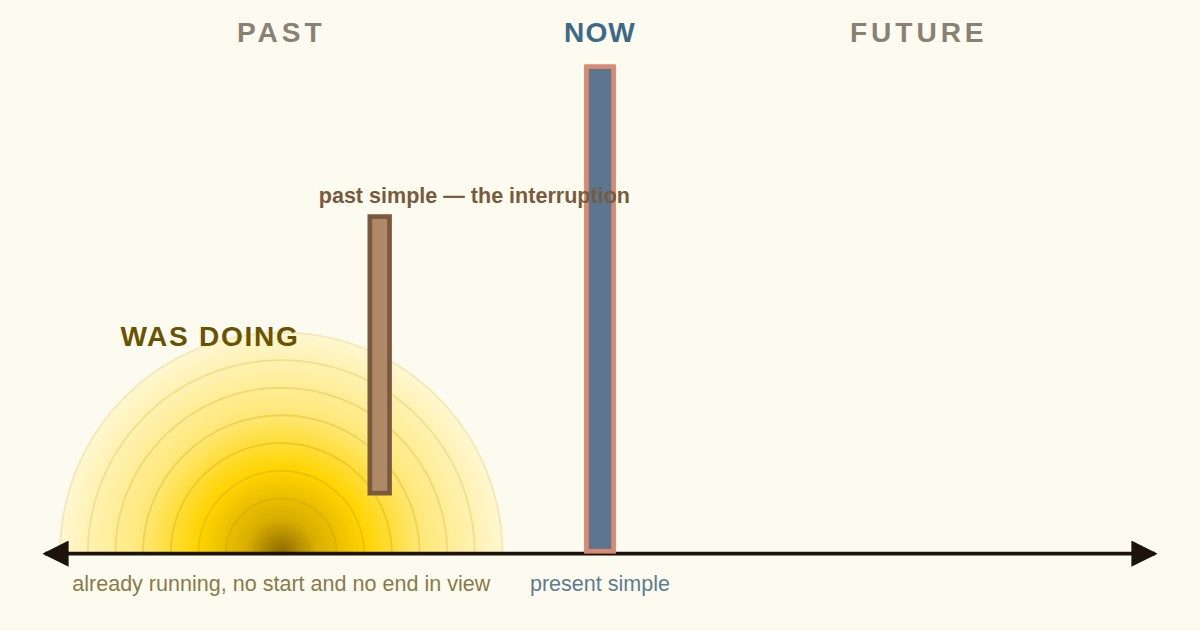
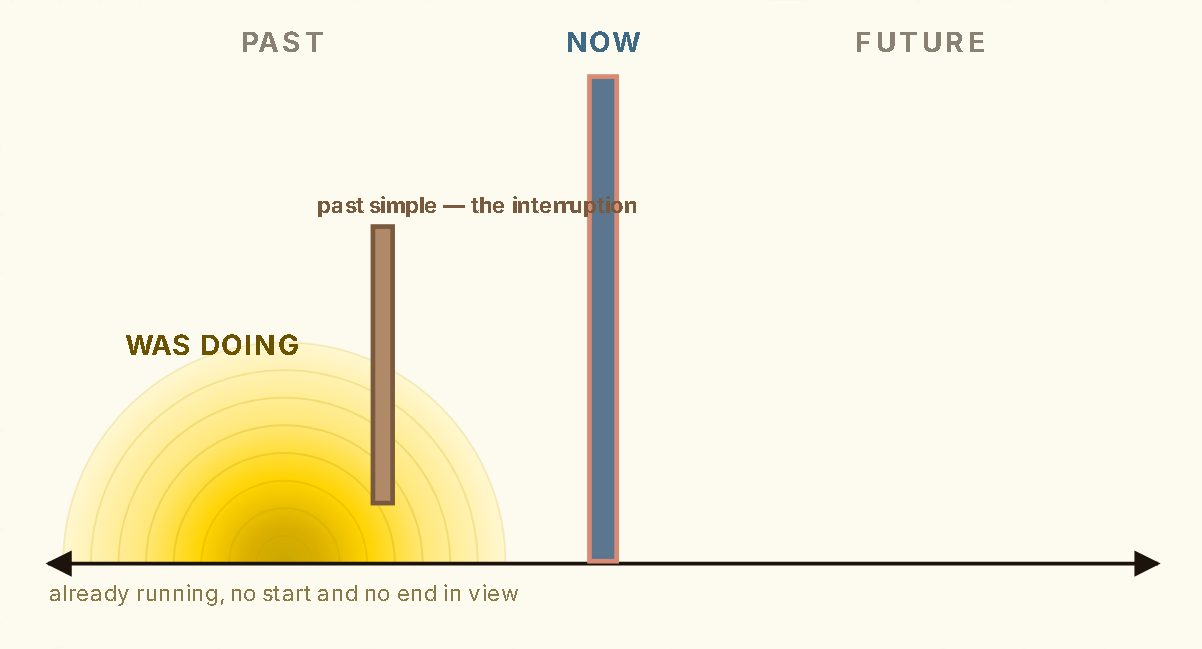
Sherpa camp six: yellow, not mustard, so it stands apart from past simple
Innes: "this should be yellow to distinguish it from past simple". The
route map calls camp six a soft yellow (#F1D779), but the page wore a
mustard (#A8860B): the recolour tools walk --accent down until text in it
clears 3:1 on the paper, and a yellow dark enough for text is mustard,
which beside past simple's tan reads as the same brown.

Almost every use of --accent is a fill (section markers, the trail line,
buttons, the translation chip, the progress bar, borders); two are text
(the "Tensing" in the wordmark, the results score). New tool
lesson-template/split_accent.py splits them:
- --accent becomes the fill, derived from the key in OKLCh (hue kept,
  L -0.02, chroma x1.25): #F1CF50, with the page ink on it at 10.4:1;
- the old shade becomes --accent-text (3.33:1) and both text uses point
  at it;
- --accent-light/-lighter re-derived at the key hue: #FCE698, #FFF6D1;
- the hero glow's gold-brown centre and rings (#8A6A00, #C79A00) lift to
  a deep yellow at the key hue (#CAA800); text colours are untouched.
Descent eight, camp six's twin on a dark page, takes the same yellow
(no split needed: 12.3:1 on its paper).

recolour_family.floors() now measures the 3:1 floor on --accent-text
where a page has one, so a later pass cannot walk the fill back to
mustard; both pages come through it unchanged. check_route_map.py
passes. Cards re-rendered.

diff --git a/sherpa-tensing-camp-six-past-continuous.html b/sherpa-tensing-camp-six-past-continuous.html
@@ -29,10 +29,10 @@
     --ink-soft:#6E6231;
     --paper:#FDFBF0;
     --card:#FFFFFF;
-    --accent:#A8860B; --on-accent:#2A2208;
+    --accent:#F1CF50; --accent-text:#A8860B; --on-accent:#2A2208;
     --accent-dark:#6B5200;
-    --accent-light:#F0E0A6;
-    --accent-lighter:#FBF4DA;
+    --accent-light:#FCE698;
+    --accent-lighter:#FFF6D1;
     --good:#1E7A4C;
     --good-bg:#E5F5EC;
     --bad:#B23A3A;
@@ -44,7 +44,7 @@
   h1,h2,h3{font-family:'Fraunces',serif;font-weight:600;margin:0 0 .4em;color:var(--ink);}
   .wordmark{display:flex;align-items:center;justify-content:space-between;max-width:1000px;margin:0 auto;padding:28px 24px 0;}
   .wordmark .brand{font-family:'Fraunces',serif;font-weight:700;font-size:20px;letter-spacing:.02em;}
-  .wordmark .brand span{color:var(--accent);}
+  .wordmark .brand span{color:var(--accent-text);}
   .wordmark .sub{font-size:13px;color:var(--ink-soft);}
 
   .form-grid{display:grid;grid-template-columns:repeat(auto-fit,minmax(220px,1fr));gap:16px;margin-top:18px;}
@@ -135,7 +135,7 @@
   .next-btn:disabled{background:var(--accent-light);cursor:not-allowed;}
 
   #results{display:none;text-align:center;padding:12px 0 8px;}
-  #results .score{font-family:'Fraunces',serif;font-size:52px;color:var(--accent);margin:8px 0;}
+  #results .score{font-family:'Fraunces',serif;font-size:52px;color:var(--accent-text);margin:8px 0;}
   #results p{color:var(--ink-soft);}
   .retry-btn{margin-top:12px;background:transparent;border:1px solid var(--accent);color:var(--accent-dark);padding:10px 20px;border-radius:999px;font-weight:600;cursor:pointer;font-family:'Inter',sans-serif;}
   .route-nav{display:flex;justify-content:center;gap:12px;flex-wrap:wrap;margin-top:22px;padding-top:18px;border-top:1px solid var(--accent-light);}
@@ -235,32 +235,32 @@ svg.hero-diagram{background:var(--paper);box-shadow:0 0 18px 14px var(--paper);}
     <svg class="hero-diagram" viewBox="0 0 640 344" xmlns="http://www.w3.org/2000/svg" role="img" aria-label="A timeline from past to future. A yellow ripple spreads through past time, and a thin brown bar drops into it partway down: the past simple interrupting the past continuous. Now is a narrow column at the centre.">
       <defs>
         <radialGradient id="pcGlowpc" cx="50%" cy="50%" r="50%">
-          <stop offset="0%" stop-color="#8A6A00"/>
+          <stop offset="0%" stop-color="#CAA800"/>
           <stop offset="16%" stop-color="#D9AE00"/>
           <stop offset="38%" stop-color="#FFD400"/>
           <stop offset="64%" stop-color="#FFE87A"/>
           <stop offset="100%" stop-color="#FFF7D1"/>
         </radialGradient>
         <marker id="ah-pc" viewBox="0 0 10 10" refX="9" refY="5" markerWidth="7" markerHeight="7" orient="auto-start-reverse">
-          <path d="M0,0 L10,5 L0,10 z" fill="#1c130c"/>
+          <path d="M0,0 L10,5 L0,10 z" fill="#1C130C"/>
         </marker>
         <clipPath id="above-pc"><rect x="0" y="0" width="640" height="299"/></clipPath>
       </defs>
       <rect x="0" y="0" width="640" height="344" fill="var(--paper)"/>
       <g clip-path="url(#above-pc)">
       <circle cx="150" cy="299" r="118" fill="url(#pcGlowpc)"/>
-      <circle cx="150" cy="299" r="14.8" fill="none" stroke="#C79A00" stroke-width="1" opacity="0.39"/>
-      <circle cx="150" cy="299" r="29.5" fill="none" stroke="#C79A00" stroke-width="1" opacity="0.36"/>
-      <circle cx="150" cy="299" r="44.2" fill="none" stroke="#C79A00" stroke-width="1" opacity="0.33"/>
-      <circle cx="150" cy="299" r="59.0" fill="none" stroke="#C79A00" stroke-width="1" opacity="0.30"/>
-      <circle cx="150" cy="299" r="73.8" fill="none" stroke="#C79A00" stroke-width="1" opacity="0.27"/>
-      <circle cx="150" cy="299" r="88.5" fill="none" stroke="#C79A00" stroke-width="1" opacity="0.24"/>
-      <circle cx="150" cy="299" r="103.2" fill="none" stroke="#C79A00" stroke-width="1" opacity="0.21"/>
-      <circle cx="150" cy="299" r="118.0" fill="none" stroke="#C79A00" stroke-width="1" opacity="0.18"/>
+      <circle cx="150" cy="299" r="14.8" fill="none" stroke="#CAA800" stroke-width="1" opacity="0.39"/>
+      <circle cx="150" cy="299" r="29.5" fill="none" stroke="#CAA800" stroke-width="1" opacity="0.36"/>
+      <circle cx="150" cy="299" r="44.2" fill="none" stroke="#CAA800" stroke-width="1" opacity="0.33"/>
+      <circle cx="150" cy="299" r="59.0" fill="none" stroke="#CAA800" stroke-width="1" opacity="0.30"/>
+      <circle cx="150" cy="299" r="73.8" fill="none" stroke="#CAA800" stroke-width="1" opacity="0.27"/>
+      <circle cx="150" cy="299" r="88.5" fill="none" stroke="#CAA800" stroke-width="1" opacity="0.24"/>
+      <circle cx="150" cy="299" r="103.2" fill="none" stroke="#CAA800" stroke-width="1" opacity="0.21"/>
+      <circle cx="150" cy="299" r="118.0" fill="none" stroke="#CAA800" stroke-width="1" opacity="0.18"/>
       <rect x="196" y="118" width="13" height="150" fill="#7A5A3E"/>
       <rect x="198.5" y="120.5" width="8" height="145" fill="#B08968"/>
       </g>
-      <line x1="24" y1="299" x2="616" y2="299" stroke="#1c130c" stroke-width="2"
+      <line x1="24" y1="299" x2="616" y2="299" stroke="#1C130C" stroke-width="2"
             marker-start="url(#ah-pc)" marker-end="url(#ah-pc)"/>
       <rect x="311.5" y="38" width="17.0" height="261" fill="#D98A72"/>
       <rect x="314.0" y="40.5" width="12.0" height="256" fill="#5C7690"/>
@@ -451,14 +451,14 @@ svg.hero-diagram{background:var(--paper);box-shadow:0 0 18px 14px var(--paper);}
           <svg viewBox="0 0 640 344" xmlns="http://www.w3.org/2000/svg" role="img" aria-label="A timeline from past to future. A yellow ripple spreads through past time, and a thin brown bar drops into it partway down: the past simple interrupting the past continuous. Now is a narrow column at the centre.">
       <defs>
         <radialGradient id="pcGlowpcb" cx="50%" cy="50%" r="50%">
-          <stop offset="0%" stop-color="#8A6A00"/>
+          <stop offset="0%" stop-color="#CAA800"/>
           <stop offset="16%" stop-color="#D9AE00"/>
           <stop offset="38%" stop-color="#FFD400"/>
           <stop offset="64%" stop-color="#FFE87A"/>
           <stop offset="100%" stop-color="#FFF7D1"/>
         </radialGradient>
         <marker id="ah-pcb" viewBox="0 0 10 10" refX="9" refY="5" markerWidth="7" markerHeight="7" orient="auto-start-reverse">
-          <path d="M0,0 L10,5 L0,10 z" fill="#1c130c"/>
+          <path d="M0,0 L10,5 L0,10 z" fill="#1C130C"/>
         </marker>
         <clipPath id="above-pcb"><rect x="0" y="0" width="640" height="299"/></clipPath>
       </defs>
@@ -466,21 +466,21 @@ svg.hero-diagram{background:var(--paper);box-shadow:0 0 18px 14px var(--paper);}
       <g clip-path="url(#above-pcb)">
       <g class="diagram-shape" id="shape-long" tabindex="0" role="button" aria-label="Show past continuous examples">
       <circle cx="150" cy="299" r="118" fill="url(#pcGlowpcb)"/>
-      <circle cx="150" cy="299" r="14.8" fill="none" stroke="#C79A00" stroke-width="1" opacity="0.39"/>
-      <circle cx="150" cy="299" r="29.5" fill="none" stroke="#C79A00" stroke-width="1" opacity="0.36"/>
-      <circle cx="150" cy="299" r="44.2" fill="none" stroke="#C79A00" stroke-width="1" opacity="0.33"/>
-      <circle cx="150" cy="299" r="59.0" fill="none" stroke="#C79A00" stroke-width="1" opacity="0.30"/>
-      <circle cx="150" cy="299" r="73.8" fill="none" stroke="#C79A00" stroke-width="1" opacity="0.27"/>
-      <circle cx="150" cy="299" r="88.5" fill="none" stroke="#C79A00" stroke-width="1" opacity="0.24"/>
-      <circle cx="150" cy="299" r="103.2" fill="none" stroke="#C79A00" stroke-width="1" opacity="0.21"/>
-      <circle cx="150" cy="299" r="118.0" fill="none" stroke="#C79A00" stroke-width="1" opacity="0.18"/>
+      <circle cx="150" cy="299" r="14.8" fill="none" stroke="#CAA800" stroke-width="1" opacity="0.39"/>
+      <circle cx="150" cy="299" r="29.5" fill="none" stroke="#CAA800" stroke-width="1" opacity="0.36"/>
+      <circle cx="150" cy="299" r="44.2" fill="none" stroke="#CAA800" stroke-width="1" opacity="0.33"/>
+      <circle cx="150" cy="299" r="59.0" fill="none" stroke="#CAA800" stroke-width="1" opacity="0.30"/>
+      <circle cx="150" cy="299" r="73.8" fill="none" stroke="#CAA800" stroke-width="1" opacity="0.27"/>
+      <circle cx="150" cy="299" r="88.5" fill="none" stroke="#CAA800" stroke-width="1" opacity="0.24"/>
+      <circle cx="150" cy="299" r="103.2" fill="none" stroke="#CAA800" stroke-width="1" opacity="0.21"/>
+      <circle cx="150" cy="299" r="118.0" fill="none" stroke="#CAA800" stroke-width="1" opacity="0.18"/>
       </g>
       <g class="diagram-shape" id="shape-short" tabindex="0" role="button" aria-label="Show past simple examples">
       <rect x="196" y="118" width="13" height="150" fill="#7A5A3E"/>
       <rect x="198.5" y="120.5" width="8" height="145" fill="#B08968"/>
       </g>
       </g>
-      <line x1="24" y1="299" x2="616" y2="299" stroke="#1c130c" stroke-width="2"
+      <line x1="24" y1="299" x2="616" y2="299" stroke="#1C130C" stroke-width="2"
             marker-start="url(#ah-pcb)" marker-end="url(#ah-pcb)"/>
       <rect x="311.5" y="38" width="17.0" height="261" fill="#D98A72"/>
       <rect x="314.0" y="40.5" width="12.0" height="256" fill="#5C7690"/>
@@ -690,7 +690,7 @@ function pulseShape(el){
     { duration: 380, easing: "ease-out" }
   );
 }
-[["shape-long","panel-long","#C79A00"],
+[["shape-long","panel-long","#CAA800"],
  ["shape-short","panel-short","#7A5A3E"]].forEach(function(pair){
   var el = document.getElementById(pair[0]);
   if (!el) return;

diff --git a/sherpa-tensing-descent-eight-past-continuous-passive.html b/sherpa-tensing-descent-eight-past-continuous-passive.html
@@ -29,7 +29,7 @@
     --ink-soft:#BCAD79;
     --paper:#161200;
     --card:#241E06;
-    --accent:#C79A00; --on-accent:#161200;
+    --accent:#F1CF50; --on-accent:#161200;
     --accent-dark:#FFEC9E;
     --accent-light:#3A2F00;
     --accent-lighter:#241D00;
@@ -254,14 +254,14 @@ svg.hero-diagram{background:var(--paper);box-shadow:0 0 18px 14px var(--paper);}
       <rect x="0" y="0" width="640" height="344" fill="var(--paper)"/>
       <g clip-path="url(#above-pctp1)">
       <circle cx="150" cy="299" r="118" fill="url(#pctpGpctp1)"/>
-      <circle cx="150" cy="299" r="14.8" fill="none" stroke="#C79A00" stroke-width="1" opacity="0.41"/>
-      <circle cx="150" cy="299" r="29.5" fill="none" stroke="#C79A00" stroke-width="1" opacity="0.38"/>
-      <circle cx="150" cy="299" r="44.2" fill="none" stroke="#C79A00" stroke-width="1" opacity="0.35"/>
-      <circle cx="150" cy="299" r="59.0" fill="none" stroke="#C79A00" stroke-width="1" opacity="0.32"/>
-      <circle cx="150" cy="299" r="73.8" fill="none" stroke="#C79A00" stroke-width="1" opacity="0.29"/>
-      <circle cx="150" cy="299" r="88.5" fill="none" stroke="#C79A00" stroke-width="1" opacity="0.26"/>
-      <circle cx="150" cy="299" r="103.2" fill="none" stroke="#C79A00" stroke-width="1" opacity="0.23"/>
-      <circle cx="150" cy="299" r="118.0" fill="none" stroke="#C79A00" stroke-width="1" opacity="0.20"/>
+      <circle cx="150" cy="299" r="14.8" fill="none" stroke="#CAA800" stroke-width="1" opacity="0.41"/>
+      <circle cx="150" cy="299" r="29.5" fill="none" stroke="#CAA800" stroke-width="1" opacity="0.38"/>
+      <circle cx="150" cy="299" r="44.2" fill="none" stroke="#CAA800" stroke-width="1" opacity="0.35"/>
+      <circle cx="150" cy="299" r="59.0" fill="none" stroke="#CAA800" stroke-width="1" opacity="0.32"/>
+      <circle cx="150" cy="299" r="73.8" fill="none" stroke="#CAA800" stroke-width="1" opacity="0.29"/>
+      <circle cx="150" cy="299" r="88.5" fill="none" stroke="#CAA800" stroke-width="1" opacity="0.26"/>
+      <circle cx="150" cy="299" r="103.2" fill="none" stroke="#CAA800" stroke-width="1" opacity="0.23"/>
+      <circle cx="150" cy="299" r="118.0" fill="none" stroke="#CAA800" stroke-width="1" opacity="0.20"/>
       <rect x="196" y="118" width="13" height="150" fill="#5E4630"/>
       <rect x="198.5" y="120.5" width="8" height="145" fill="#B08968"/>
       </g>
@@ -471,14 +471,14 @@ svg.hero-diagram{background:var(--paper);box-shadow:0 0 18px 14px var(--paper);}
       <g class="diagram-shape" id="shape-event" tabindex="0" role="button" aria-label="Show passive examples">
         <g clip-path="url(#above-pctp1b)">
       <circle cx="150" cy="299" r="118" fill="url(#pctpGpctp1b)"/>
-      <circle cx="150" cy="299" r="14.8" fill="none" stroke="#C79A00" stroke-width="1" opacity="0.41"/>
-      <circle cx="150" cy="299" r="29.5" fill="none" stroke="#C79A00" stroke-width="1" opacity="0.38"/>
-      <circle cx="150" cy="299" r="44.2" fill="none" stroke="#C79A00" stroke-width="1" opacity="0.35"/>
-      <circle cx="150" cy="299" r="59.0" fill="none" stroke="#C79A00" stroke-width="1" opacity="0.32"/>
-      <circle cx="150" cy="299" r="73.8" fill="none" stroke="#C79A00" stroke-width="1" opacity="0.29"/>
-      <circle cx="150" cy="299" r="88.5" fill="none" stroke="#C79A00" stroke-width="1" opacity="0.26"/>
-      <circle cx="150" cy="299" r="103.2" fill="none" stroke="#C79A00" stroke-width="1" opacity="0.23"/>
-      <circle cx="150" cy="299" r="118.0" fill="none" stroke="#C79A00" stroke-width="1" opacity="0.20"/>
+      <circle cx="150" cy="299" r="14.8" fill="none" stroke="#CAA800" stroke-width="1" opacity="0.41"/>
+      <circle cx="150" cy="299" r="29.5" fill="none" stroke="#CAA800" stroke-width="1" opacity="0.38"/>
+      <circle cx="150" cy="299" r="44.2" fill="none" stroke="#CAA800" stroke-width="1" opacity="0.35"/>
+      <circle cx="150" cy="299" r="59.0" fill="none" stroke="#CAA800" stroke-width="1" opacity="0.32"/>
+      <circle cx="150" cy="299" r="73.8" fill="none" stroke="#CAA800" stroke-width="1" opacity="0.29"/>
+      <circle cx="150" cy="299" r="88.5" fill="none" stroke="#CAA800" stroke-width="1" opacity="0.26"/>
+      <circle cx="150" cy="299" r="103.2" fill="none" stroke="#CAA800" stroke-width="1" opacity="0.23"/>
+      <circle cx="150" cy="299" r="118.0" fill="none" stroke="#CAA800" stroke-width="1" opacity="0.20"/>
       <rect x="196" y="118" width="13" height="150" fill="#5E4630"/>
       <rect x="198.5" y="120.5" width="8" height="145" fill="#B08968"/>
       </g>

diff --git a/lesson-template/split_accent.py b/lesson-template/split_accent.py
@@ -1,0 +1,138 @@
+#!/usr/bin/env python3
+"""Give a Sherpa page with a pale key colour its real colour back.
+
+    py lesson-template/split_accent.py <page.html> <key-hex> [--dry-run]
+
+Innes, 2026-09-26, on camp six: "this should be yellow to distinguish it
+from past simple". The route map calls camp six a soft yellow (#F1D779), but
+the page wore a mustard (#A8860B): the recolour tools walk --accent down
+until TEXT in it clears 3:1 on the paper, and a yellow dark enough for text
+is mustard, which beside past simple's tan reads as the same brown.
+
+Almost every use of --accent is a FILL (section markers, the trail line,
+buttons, the translation chip, the progress bar, borders); only a few are
+text (the "Tensing" in the wordmark, the results score). So:
+
+- a light page gets a split: --accent becomes the fill, derived from the key
+  in OKLCh (hue kept, L -0.02, chroma x1.25, so it holds its own on the cream
+  paper), with the page ink on it (--on-accent); the old 3:1 shade becomes
+  --accent-text, and every `color:var(--accent)` points at it;
+- a dark page needs no split (a yellow is legible on it): --accent is the fill;
+- --accent-light and --accent-lighter are re-derived at the key hue with
+  enough chroma to read as a tint of it, not as beige;
+- in the diagrams, every fill, stroke or gradient stop in the accent's hue
+  family darker than L 0.74 is lifted to it, at the key hue (a deep yellow,
+  not a gold-brown); on a dark page only the mid-tones, since its dark
+  family colours are grounds. Text colours are left alone: they need the dark.
+
+recolour_family.floors() knows the split: on a page with --accent-text, the
+3:1 floor is measured on it, and --accent is held only as a fill.
+"""
+import io
+import math
+import os
+import re
+import sys
+
+sys.path.insert(0, os.path.dirname(os.path.abspath(__file__)))
+from soften import to_lch, from_lch, contrast        # noqa: E402
+
+HEX = r'(?<!&)#([0-9A-Fa-f]{6})\b'
+FAMILY_DH = 10          # degrees either side of the key hue
+FAMILY_MIN_C = 0.08     # below this a colour is a grey or an ink, not the family
+DEEP_L = 0.74           # the darkest a diagram fill may be and still read as the key colour
+
+
+def tokens(src):
+    return {k: v.upper() for k, v in re.findall(r'(--[a-z-]+)\s*:\s*(#[0-9A-Fa-f]{6})', src)}
+
+
+def set_token(src, tok, val):
+    new, n = re.subn(r'(%s\s*:\s*)#[0-9A-Fa-f]{6}' % re.escape(tok), lambda m: m.group(1) + val, src, count=1)
+    return new, n
+
+
+def in_family(h, key_H):
+    L, C, H = to_lch(h)
+    d = abs((math.degrees(H) - math.degrees(key_H) + 180) % 360 - 180)
+    return C >= FAMILY_MIN_C and d <= FAMILY_DH
+
+
+def split(src, key):
+    t = tokens(src)
+    kL, kC, kH = to_lch(key)
+    fill = from_lch(kL - 0.02, kC * 1.25, kH)
+    paper, ink = t['--paper'], t['--ink']
+    dark = to_lch(paper)[0] < 0.5
+    log = []
+    old = t['--accent']
+    if not dark:
+        if '--accent-text' not in t:
+            src = src.replace('--accent:%s;' % old, '--accent:%s; --accent-text:%s;' % (old, old), 1) \
+                if '--accent:%s;' % old in src else re.sub(
+                    r'(--accent\s*:\s*%s\s*;)' % re.escape(old), r'\1 --accent-text:%s;' % old, src, count=1, flags=re.I)
+            n = len(re.findall(r'(?<![-a-z])color\s*:\s*var\(--accent\)', src))
+            src = re.sub(r'((?<![-a-z])color\s*:\s*)var\(--accent\)', r'\1var(--accent-text)', src)
+            log.append('--accent-text %s (%.2f on the paper); %d text use(s) of --accent moved to it'
+                       % (old, contrast(old, paper), n))
+    src, _ = set_token(src, '--accent', fill)
+    oa = t.get('--on-accent')
+    best = max([ink, paper, '#FFFFFF'], key=lambda c: contrast(c, fill))
+    if oa:
+        src, _ = set_token(src, '--on-accent', best)
+    log.append('--accent %s -> %s (fill; %.2f on the paper), --on-accent %s at %.2f'
+               % (old, fill, contrast(fill, paper), best, contrast(best, fill)))
+    if not dark:
+        for tok, (L, C) in (('--accent-light', (0.925, kC * 0.85)), ('--accent-lighter', (0.972, kC * 0.42))):
+            if tok in t:
+                v = from_lch(L, C, kH)
+                src, _ = set_token(src, tok, v)
+                log.append('%s %s -> %s' % (tok, t[tok], v))
+        ad, al = tokens(src).get('--accent-dark'), tokens(src).get('--accent-lighter')
+        if ad and al:
+            log.append('--accent-dark %s on --accent-lighter %.2f' % (ad, contrast(ad, al)))
+    # the diagrams: lift dark family fills, strokes and stops; leave text alone
+    moved = {}
+    t2 = tokens(src)
+    keep = {t2.get(k) for k in ('--accent-text', '--accent-dark', '--ink', '--ink-soft')}
+
+    def lift(h):
+        h = h.upper()
+        if h in moved:
+            return moved[h]
+        L, C, H = to_lch(h)
+        nv = h
+        # on a dark page the dark family colours are grounds, not golds: only mid-tones lift
+        if in_family(h, kH) and L < DEEP_L and (not dark or L >= 0.5) and h not in keep:
+            nv = from_lch(DEEP_L, max(C, kC * 1.3), kH)
+        moved[h] = nv
+        return nv
+
+    def attr(m):
+        tag = m.group(0)
+        if re.match(r'<text\b|<tspan\b', tag):
+            return tag
+        return re.sub(r'((?:fill|stroke|stop-color)=")#([0-9A-Fa-f]{6})(")', lambda a: a.group(1) + lift('#' + a.group(2)) + a.group(3), tag)
+    src = re.sub(r'<(?:circle|rect|path|line|polyline|polygon|ellipse|stop|g)\b[^>]*>', attr, src)
+    # colours handed to the diagram script as data (["shape-long", "panel-long", "#C79A00"])
+    src = re.sub(r'(\["[a-z-]+",\s*"[a-z-]+",\s*")#([0-9A-Fa-f]{6})("\])', lambda a: a.group(1) + lift('#' + a.group(2)) + a.group(3), src)
+    for a, b in sorted(moved.items()):
+        if a != b:
+            log.append('diagram %s -> %s' % (a, b))
+    return src, log
+
+
+def main():
+    args = [a for a in sys.argv[1:] if not a.startswith('--')]
+    if len(args) != 2:
+        sys.exit(__doc__.split('\n\n')[1])
+    page, key = args
+    src = io.open(page, encoding='utf-8').read()
+    new, log = split(src, key.upper())
+    print('\n'.join('  ' + l for l in log))
+    if '--dry-run' not in sys.argv and new != src:
+        io.open(page, 'w', encoding='utf-8', newline='\n').write(new)
+
+
+if __name__ == '__main__':
+    main()

diff --git a/lesson-template/recolour_family.py b/lesson-template/recolour_family.py
@@ -198,7 +198,10 @@ def floors(src):
     if not paper or not acc:
         return src, ['      (no --paper/--accent tokens)'], 0
     dark_page = to_lch(paper)[0] < 0.5
-    for tok, floor in (('--accent', 3.0), ('--accent-dark', 4.5)):
+    # a page split by split_accent.py (camp six) keeps --accent as a fill and
+    # draws its accent text in --accent-text: the 3:1 floor belongs to that
+    text = '--accent-text' if '--accent-text' in t else '--accent'
+    for tok, floor in ((text, 3.0), ('--accent-dark', 4.5)):
         v = t.get(tok)
         if not v:
             continue
